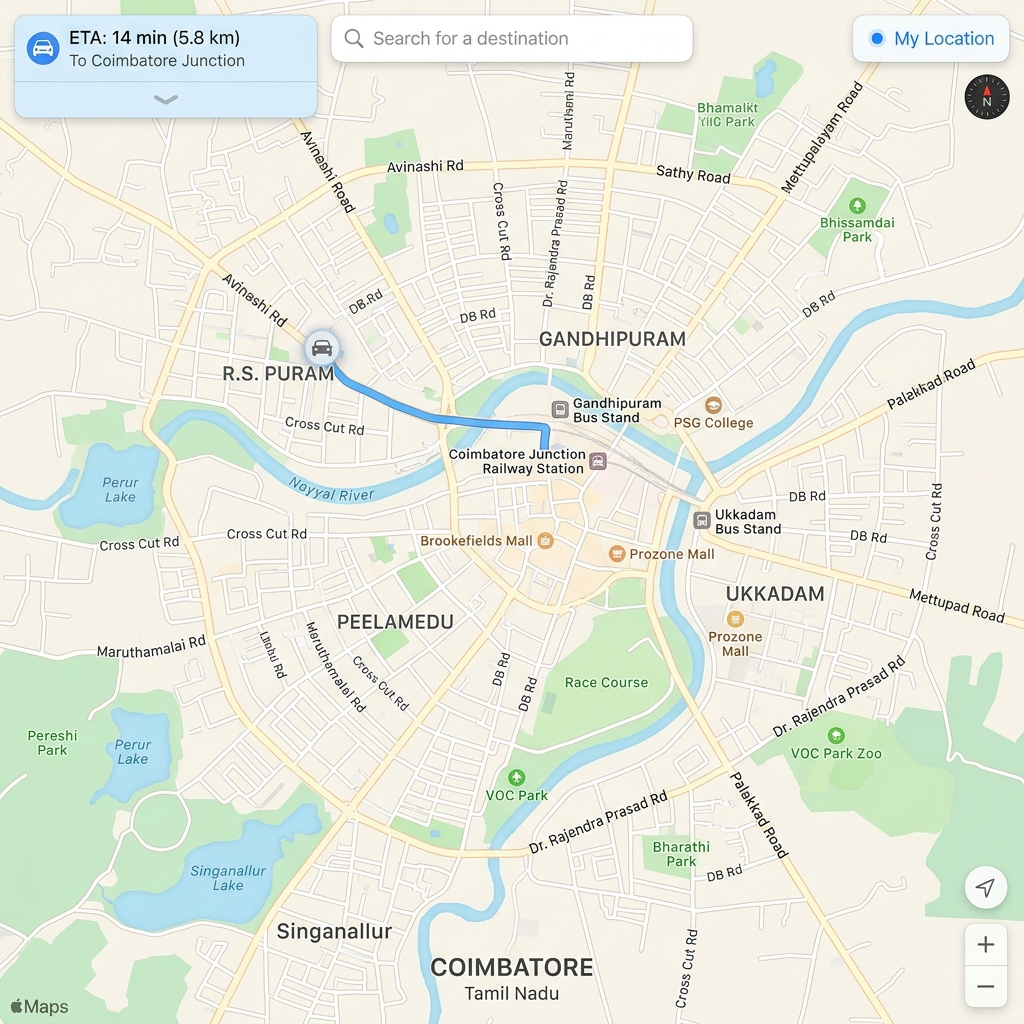
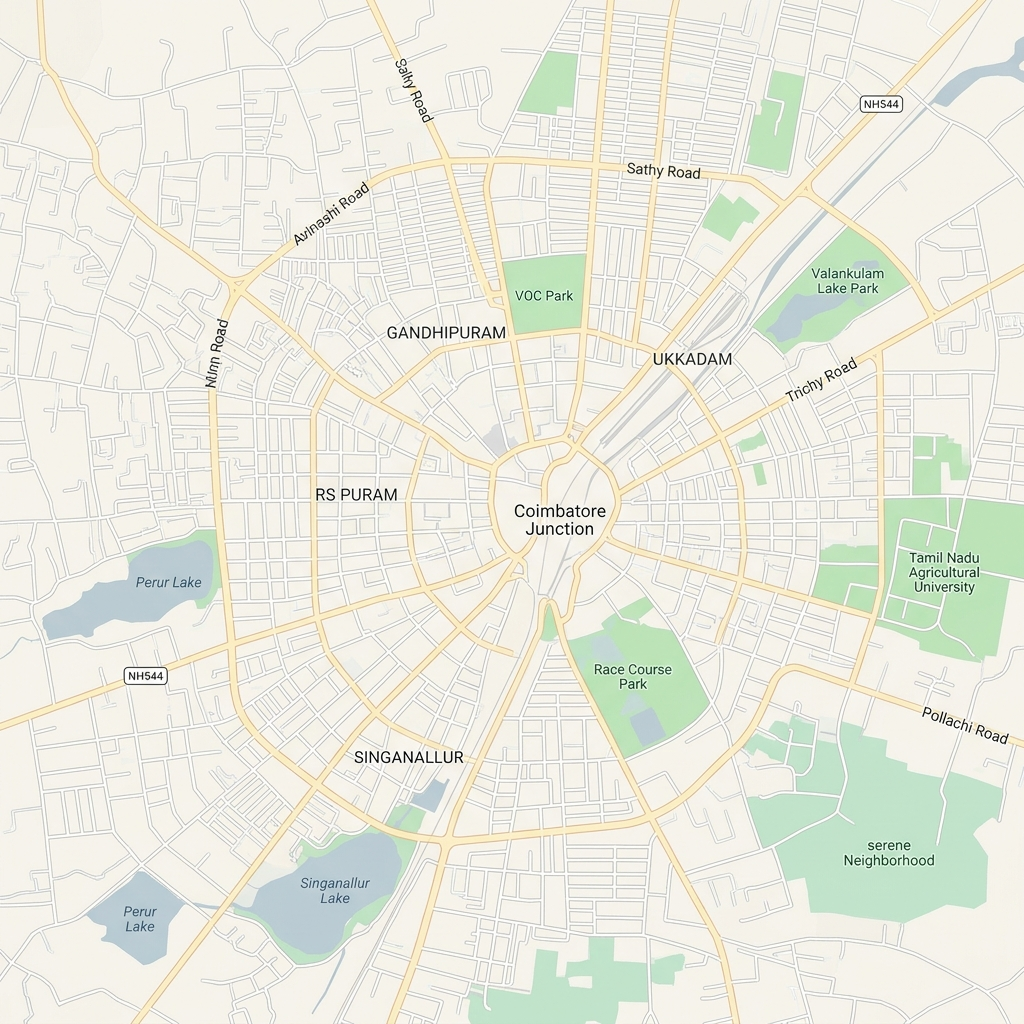
style(mobile): refine Select Locations map background and header visual alignment

diff --git a/app/(customer)/select-location.tsx b/app/(customer)/select-location.tsx
@@ -126,40 +126,40 @@ export default function SelectLocationScreen() {
             </View>
           )}
 
-          {/* Top Floating Map Controls: Back Button & Centered Logo */}
-          <View style={styles.topMapHeader}>
-            <TouchableOpacity
-              style={styles.backButtonCircle}
-              activeOpacity={0.8}
-              onPress={handleBack}
-              accessibilityLabel="Go back"
-            >
-              <ArrowLeft size={19} color="#0E1E38" strokeWidth={2.4} />
-            </TouchableOpacity>
-
-            <View style={styles.brandRow}>
-              <Image
-                source={require('../../assets/DriveX_Logo.png')}
-                style={styles.logoEmblem}
-                resizeMode="contain"
-              />
-              <View style={styles.brandTextRow}>
-                <Text style={styles.brandTextNavy}>Driver</Text>
-                <Text style={styles.brandTextTeal}>X</Text>
-              </View>
-            </View>
-
-            {/* Placeholder to balance back button */}
-            <View style={{ width: 38 }} />
-          </View>
-
-          {/* Upper Section: Coimbatore Interactive Map Background */}
+          {/* Upper Section: Coimbatore Interactive Map Background with Overlaid Controls */}
           <View style={styles.mapContainer}>
             <Image
               source={require('../../assets/coimbatore_map_bg.jpg')}
               style={StyleSheet.absoluteFill}
               resizeMode="cover"
             />
+
+            {/* Top Floating Map Controls: Back Button & Centered Logo */}
+            <View style={styles.topMapHeader}>
+              <TouchableOpacity
+                style={styles.backButtonCircle}
+                activeOpacity={0.8}
+                onPress={handleBack}
+                accessibilityLabel="Go back"
+              >
+                <ArrowLeft size={19} color="#0E1E38" strokeWidth={2.4} />
+              </TouchableOpacity>
+
+              <View style={styles.brandCenter}>
+                <Image
+                  source={require('../../assets/DriveX_Logo.png')}
+                  style={styles.logoEmblem}
+                  resizeMode="contain"
+                />
+                <View style={styles.brandTextRow}>
+                  <Text style={styles.brandTextNavy}>Driver</Text>
+                  <Text style={styles.brandTextTeal}>X</Text>
+                </View>
+              </View>
+
+              {/* Placeholder to balance back button */}
+              <View style={{ width: 42 }} />
+            </View>
 
             {/* "Use Current Location" Floating Pill on top-left of map */}
             <TouchableOpacity
@@ -172,29 +172,33 @@ export default function SelectLocationScreen() {
             </TouchableOpacity>
 
             {/* Map Landmark Callouts matching design */}
-            <View style={[styles.mapLandmarkBadge, { top: 22, right: 30 }]}>
+            <View style={[styles.mapLandmarkBadge, { top: 38, right: 18 }]}>
               <ShoppingBag size={11} color="#0284C7" strokeWidth={2.2} />
               <Text style={styles.landmarkText}>Brookefields Mall</Text>
             </View>
 
-            <View style={[styles.mapLandmarkBadge, { top: 68, right: 90 }]}>
+            <View style={[styles.mapLandmarkBadge, { top: 78, left: 165 }]}>
               <Train size={11} color="#475569" strokeWidth={2.2} />
               <Text style={styles.landmarkText}>Coimbatore Railway Station</Text>
             </View>
 
-            <View style={[styles.mapLandmarkBadge, { top: 120, left: 16 }]}>
+            <Text style={[styles.mapPlainLabel, { top: 104, right: 28 }]}>RS Puram</Text>
+
+            <View style={[styles.mapLandmarkBadge, { top: 135, left: 16 }]}>
               <Bus size={11} color="#475569" strokeWidth={2.2} />
               <Text style={styles.landmarkText}>Gandhipuram Bus Stand</Text>
             </View>
 
-            <View style={[styles.mapLandmarkBadge, { top: 130, right: 26 }]}>
+            <View style={[styles.mapLandmarkBadge, { top: 145, right: 20 }]}>
               <Building2 size={11} color="#475569" strokeWidth={2.2} />
               <Text style={styles.landmarkText}>Tidel Park Coimbatore</Text>
             </View>
 
-            <View style={[styles.mapLandmarkBadge, { bottom: 30, right: 20 }]}>
+            <Text style={[styles.mapPlainLabel, { top: 188, right: 75 }]}>Peelamedu</Text>
+
+            <View style={[styles.mapLandmarkBadge, { top: 206, right: 16 }]}>
               <Plane size={11} color="#0284C7" strokeWidth={2.2} />
-              <Text style={styles.landmarkText}>Coimbatore Airport</Text>
+              <Text style={styles.landmarkText}>Coimbatore International Airport</Text>
             </View>
 
             {/* "Your Location" Pulsing GPS Marker & Callout */}
@@ -511,45 +515,40 @@ const styles = StyleSheet.create({
   },
   topMapHeader: {
     position: 'absolute',
-    top: Platform.OS === 'web' ? 36 : 46,
+    top: Platform.OS === 'web' ? 12 : 16,
     left: 0,
     right: 0,
     flexDirection: 'row',
     alignItems: 'center',
     justifyContent: 'space-between',
     paddingHorizontal: 16,
-    zIndex: 15,
+    zIndex: 25,
   },
   backButtonCircle: {
-    width: 38,
-    height: 38,
-    borderRadius: 19,
+    width: 40,
+    height: 40,
+    borderRadius: 20,
     backgroundColor: '#FFFFFF',
     alignItems: 'center',
     justifyContent: 'center',
     shadowColor: '#000000',
-    shadowOffset: { width: 0, height: 3 },
-    shadowOpacity: 0.12,
-    shadowRadius: 6,
-    elevation: 4,
+    shadowOffset: { width: 0, height: 2 },
+    shadowOpacity: 0.1,
+    shadowRadius: 5,
+    elevation: 3,
+  },
+  brandCenter: {
+    alignItems: 'center',
+    justifyContent: 'center',
   },
   brandRow: {
     flexDirection: 'row',
     alignItems: 'center',
-    backgroundColor: 'rgba(255, 255, 255, 0.94)',
-    paddingHorizontal: 12,
-    paddingVertical: 5,
-    borderRadius: 20,
-    shadowColor: '#000000',
-    shadowOffset: { width: 0, height: 2 },
-    shadowOpacity: 0.08,
-    shadowRadius: 6,
-    elevation: 3,
   },
   logoEmblem: {
-    width: 32,
-    height: 20,
-    marginRight: 5,
+    width: 44,
+    height: 22,
+    marginBottom: -2,
   },
   brandTextRow: {
     flexDirection: 'row',
@@ -557,25 +556,25 @@ const styles = StyleSheet.create({
   },
   brandTextNavy: {
     fontFamily: FONT.bold,
-    fontSize: 18,
+    fontSize: 19,
     color: '#0E1E38',
     letterSpacing: -0.4,
   },
   brandTextTeal: {
     fontFamily: FONT.bold,
-    fontSize: 18,
+    fontSize: 19,
     color: '#00D2B4',
     letterSpacing: -0.4,
   },
   mapContainer: {
-    height: 280,
+    height: 295,
     width: '100%',
     position: 'relative',
     backgroundColor: '#E2E8F0',
   },
   useCurrentLocationPill: {
     position: 'absolute',
-    top: 54,
+    top: Platform.OS === 'web' ? 62 : 68,
     left: 16,
     flexDirection: 'row',
     alignItems: 'center',
@@ -585,10 +584,11 @@ const styles = StyleSheet.create({
     paddingVertical: 7,
     borderRadius: 20,
     shadowColor: '#000000',
-    shadowOffset: { width: 0, height: 3 },
-    shadowOpacity: 0.1,
-    shadowRadius: 6,
+    shadowOffset: { width: 0, height: 2 },
+    shadowOpacity: 0.08,
+    shadowRadius: 5,
     elevation: 3,
+    zIndex: 20,
   },
   useCurrentLocationText: {
     fontFamily: FONT.bold,
@@ -612,10 +612,16 @@ const styles = StyleSheet.create({
     fontSize: 9.5,
     color: '#334155',
   },
+  mapPlainLabel: {
+    position: 'absolute',
+    fontFamily: FONT.semiBold,
+    fontSize: 10.5,
+    color: '#475569',
+  },
   yourLocationContainer: {
     position: 'absolute',
     top: 96,
-    left: '46%',
+    left: '42%',
     alignItems: 'center',
   },
   yourLocationTooltip: {
